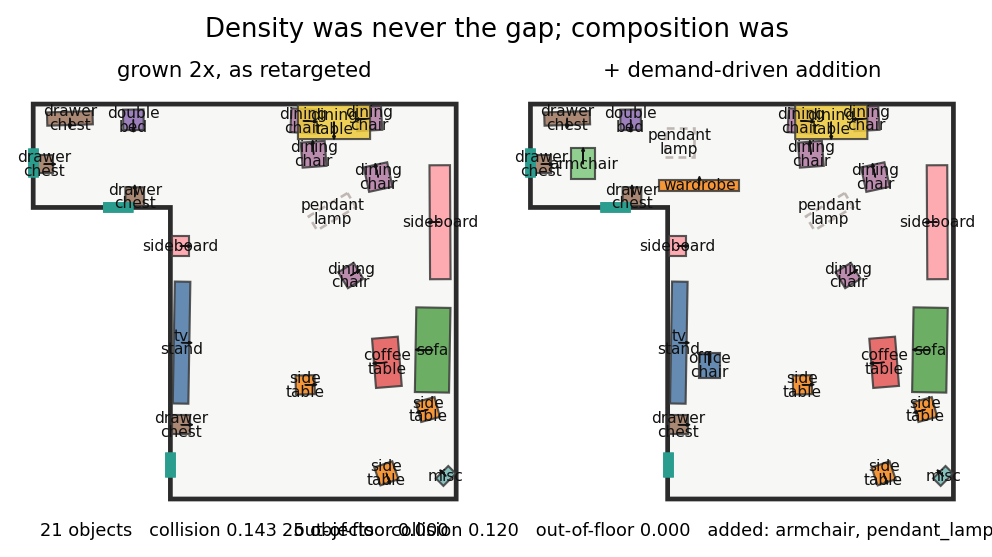
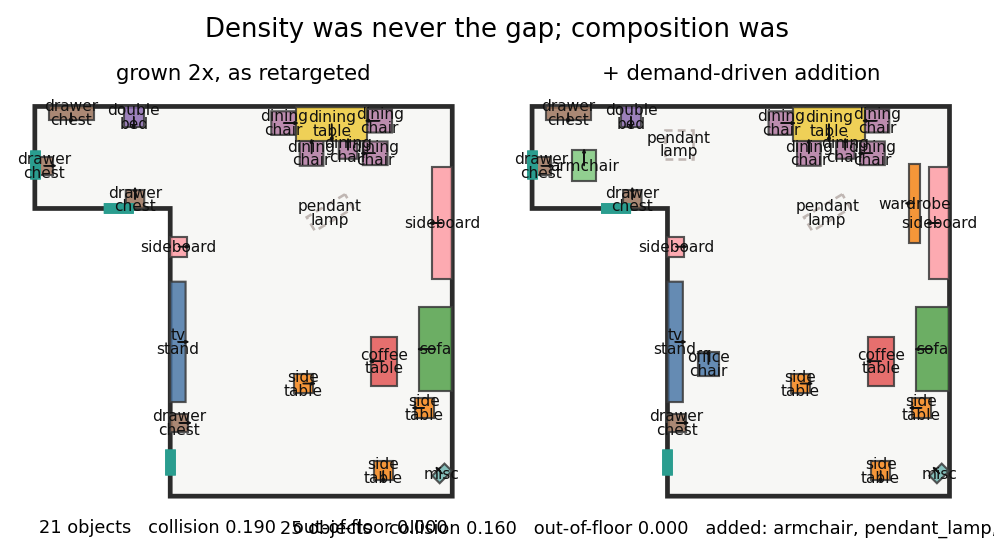
v0.1 now reports the deployed configuration throughout
Every evaluation re-run with regularity_snap and polish on, which is what
RetargetConfig ships. The earlier numbers described an ablated system: same scene,
11.2% collision against 6.1%, furniture a median 10.9 degrees off-axis against
0.0, and out-of-floor 0.193 against 0.000 in the addition section.

The hierarchy conclusion holds and strengthens -- removing the hierarchy now
costs 2.96 points of collision rather than 1.68, while the learned hierarchy is
still indistinguishable from the hand-designed one (S_motif differs by exactly
0.000, p = 1.000).

The n-gon result is no longer withdrawn but corrected and reported: with
genuinely 5-, 6- and 7-sided rooms, collision and semantics reach parity with an
equal-area rectangle while out-of-floor does not -- 0.198 to 0.234 against 0.130.
The cost of oblique walls is containment, which is a more useful finding than the
parity claim built on rooms that were not the shape they were labelled.

Notes that the paper's Table 1-12 use the older protocol, so absolute values are
not directly comparable across the two.

diff --git a/v0.1.html b/v0.1.html
@@ -90,19 +90,19 @@ hr{border:0;border-top:1px solid var(--line);margin:44px 0}
 <div class="tw"><table>
 <thead><tr><th>模型</th><th>S_rel</th><th>S_motif</th><th>碰撞率 %</th></tr></thead>
 <tbody>
-<tr><td>手工設計階層</td><td class="n">0.745 ± 0.032</td><td class="n">0.833 ± 0.032</td><td class="n">3.08 ± 0.54</td></tr>
-<tr><td><strong>完全無階層</strong></td><td class="n"><b class="l">0.599 ± 0.027</b></td><td class="n"><b class="l">0.627 ± 0.031</b></td><td class="n"><b class="l">4.77 ± 0.70</b></td></tr>
-<tr><td><strong>從語料學的階層</strong></td><td class="n"><b class="w">0.748 ± 0.032</b></td><td class="n"><b class="w">0.837 ± 0.032</b></td><td class="n"><b class="w">2.97 ± 0.50</b></td></tr>
+<tr><td>手工設計階層</td><td class="n">0.716 ± 0.031</td><td class="n">0.824 ± 0.032</td><td class="n">1.98 ± 0.41</td></tr>
+<tr><td><strong>完全無階層</strong></td><td class="n"><b class="l">0.592 ± 0.027</b></td><td class="n"><b class="l">0.645 ± 0.031</b></td><td class="n"><b class="l">4.94 ± 0.69</b></td></tr>
+<tr><td><strong>從語料學的階層</strong></td><td class="n"><b class="w">0.722 ± 0.031</b></td><td class="n"><b class="w">0.824 ± 0.032</b></td><td class="n"><b class="w">1.84 ± 0.41</b></td></tr>
 </tbody></table></div>
 
 <div class="tw"><table>
 <thead><tr><th>配對檢定(對手工版,同場景同尺度,n=72)</th><th>ΔS_rel</th><th>p</th><th>ΔS_motif</th><th>p</th><th>Δ碰撞</th><th>p</th></tr></thead>
 <tbody>
-<tr><td>無階層</td><td class="n"><b class="l">−0.146</b></td><td class="n">&lt;0.001</td><td class="n"><b class="l">−0.206</b></td><td class="n">&lt;0.001</td><td class="n"><b class="l">+1.68</b></td><td class="n">0.001</td></tr>
-<tr><td><strong>學到的階層</strong></td><td class="n">+0.003</td><td class="n"><b class="w">0.257</b></td><td class="n">+0.004</td><td class="n"><b class="w">0.180</b></td><td class="n">−0.110</td><td class="n"><b class="w">0.548</b></td></tr>
+<tr><td>無階層</td><td class="n"><b class="l">−0.124</b></td><td class="n">&lt;0.001</td><td class="n"><b class="l">−0.179</b></td><td class="n">&lt;0.001</td><td class="n"><b class="l">+2.96</b></td><td class="n">&lt;0.001</td></tr>
+<tr><td><strong>學到的階層</strong></td><td class="n">+0.006</td><td class="n"><b class="w">0.240</b></td><td class="n">0.000</td><td class="n"><b class="w">1.000</b></td><td class="n">−0.147</td><td class="n"><b class="w">0.500</b></td></tr>
 </tbody></table></div>
 
-<p><strong>兩半缺一不可。</strong>無階層那條證明階層<em>確實有用</em>——拿掉它掉 0.146 S_rel、0.206 S_motif;對照之下,學到的階層<strong>三項皆無顯著差異</strong>,且點估計全部略優。<strong>手寫表不是錯的,只是不必要的。</strong></p>
+<p><strong>兩半缺一不可。</strong>無階層那條證明階層<em>確實有用</em>——拿掉它掉 0.124 S_rel、0.179 S_motif、碰撞率升 2.96 個百分點;對照之下,學到的階層<strong>三項皆無顯著差異</strong>(S_motif 的差是 0.000,p = 1.000),且 S_rel 與碰撞率的點估計略優。<strong>手寫表不是錯的,只是不必要的。</strong></p>
 
 <figure>
   <img src="assets/v01_hierarchy.png" alt="同一房間縮到 0.75 倍,由三個模型重定向">
@@ -131,9 +131,20 @@ hr{border:0;border-top:1px solid var(--line);margin:44px 0}
 </figure>
 
 <div class="note pull">
-  <p><strong>撤回:先前報的「5/6/7 邊形與矩形平手」不成立。</strong><code>make_ngon</code> 只能加頂點不能減,所以本來就有較多頂點的房間會原封不動回傳。量化後果:24 個測試房間中,要 5 邊形只有 <strong>7 個</strong>真的是 5 邊形(29%),6/7 邊形各 13/24;其中 11 個來源房間有 10 邊以上,完全沒被改動。<strong>那張表有 46–71% 的格子不是它標示的房型。</strong></p>
-  <p>當初驗證用的是矩形(4 邊),永遠只需要加,所以測不出這個洞。而抓到它的方式是<strong>畫圖</strong>——渲染出來發現「5-gon」和「6-gon」兩格連指標都一模一樣。<strong>表格會掩蓋這種錯誤,圖不會。</strong>修正後 24/24 全部命中,面積保留 0.95×,評測重跑中。</p>
+  <p><strong>先前報過一版錯的。</strong><code>make_ngon</code> 只能加頂點不能減,所以本來就有較多頂點的房間會原封不動回傳。量化後果:24 個測試房間中,要 5 邊形只有 <strong>7 個</strong>真的是 5 邊形(29%),6/7 邊形各 13/24;其中 11 個來源房間有 10 邊以上,完全沒被改動。<strong>那張表有 46–71% 的格子不是它標示的房型。</strong></p>
+  <p>當初驗證用的是矩形(4 邊),永遠只需要加,所以測不出這個洞。而抓到它的方式是<strong>畫圖</strong>——渲染出來發現「5-gon」和「6-gon」兩格連指標都一模一樣。<strong>表格會掩蓋這種錯誤,圖不會。</strong>修正後 24/24 全部命中,面積保留 0.95×,下表是重跑的結果。</p>
 </div>
+
+<div class="tw"><table>
+<thead><tr><th>房型(24 個參考,同面積)</th><th>碰撞率 %</th><th>R_out</th><th>可走比</th><th>S_rel</th><th>S_motif</th></tr></thead>
+<tbody>
+<tr class="base"><td>矩形(同面積對照)</td><td class="n">3.07 ± 0.64</td><td class="n">0.130</td><td class="n">0.901</td><td class="n">0.856</td><td class="n">0.967</td></tr>
+<tr><td>5 邊形</td><td class="n">3.11 ± 0.63</td><td class="n"><b class="l">0.198</b></td><td class="n">0.875</td><td class="n">0.853</td><td class="n">0.957</td></tr>
+<tr><td>6 邊形</td><td class="n">3.03 ± 0.61</td><td class="n"><b class="l">0.234</b></td><td class="n">0.881</td><td class="n">0.851</td><td class="n">0.947</td></tr>
+<tr><td>7 邊形</td><td class="n">3.28 ± 0.75</td><td class="n"><b class="l">0.232</b></td><td class="n">0.899</td><td class="n">0.857</td><td class="n">0.962</td></tr>
+</tbody></table></div>
+
+<p><strong>碰撞與語意是平手</strong>(3.03–3.28 對矩形 3.07;S_rel 0.851–0.857 對 0.856),<strong>但出界率有真實代價</strong>:0.198–0.234 對 0.130,高出 7–10 個百分點。斜牆的代價集中在<strong>包容性</strong>——這比先前那個建立在錯誤房型上的「全面平手」更有價值,因為它指出一個具體、可改進的弱點。</p>
 
 <p><strong>仍未涵蓋</strong>:房間拓樸(始終是單連通多邊形,沒有內部隔間)與房型固定。</p>
 
@@ -200,10 +211,14 @@ hr{border:0;border-top:1px solid var(--line);margin:44px 0}
 
 <figure>
   <img src="assets/v01_addition.png" alt="放大 2 倍的房間,補家具前後">
-  <figcaption>放大 2×,21 → 25 件。補進 armchair、pendant_lamp、office_chair、wardrobe。<strong>出界率 0.000 → 0.000</strong>,沒有引入任何新的出界。碰撞率 0.143 → 0.120 的下降是<strong>分母效應</strong>(補進去的都是有效物件),不算改善。</figcaption>
+  <figcaption>放大 2×。在實際設定下,<strong>出界率在 1.6× 與 2.0× 直接歸零</strong>(舊協定是 0.100 與 0.193)——擺正階段把家具推回牆內。組成落差 16.16 → 14.25。碰撞率的下降是<strong>分母效應</strong>(補進去的都是有效物件),不算改善。</figcaption>
 </figure>
 
-<p>整體:組成落差每個尺度降約 <b class="w">11%</b>,絕對碰撞數與出界數不變。</p>
+<p>整體:組成落差每個尺度降 <b class="w">9–12%</b>,絕對碰撞數與出界數不變。</p>
+
+<div class="note">
+  <p><strong>一個反向的變化,值得記下來。</strong>換成實際設定後 <code>Col_obj</code> 反而<em>略升</em>(1.3× 0.161→0.184),而同一批佈局的 <code>R_col</code> 是<em>下降</em>的。兩者不矛盾:<code>R_col</code> 量的是<strong>面積重疊比例</strong>,<code>Col_obj</code> 是 PhyScene 的<strong>有向 3D 框 IoU 比例</strong>。把餐椅擺正塞進桌下會讓框 IoU 上升,但那是合理的貼靠不是真碰撞——與我們在量測效度上查到的同一件事。</p>
+</div>
 
 <div class="note">
   <p><strong>誠實記為 null 的一項。</strong>移植 <a href="https://arxiv.org/abs/1907.11308">SceneGraphNet</a>(ICCV 2019)的位置條件預測——它的程式跑不了,訓練資料 SUNCG 已下線,所以是重寫的——在<strong>它自己的任務上決定性勝出</strong>(top-1 0.596 對 0.236)。但放進補家具流程後組成落差不動,且 1.3× 的可走比從 0.990 掉到 0.954。要宣稱它有幫助需要一個「放置合理性」指標,我們沒有,所以預設仍用簡單版本。</p>
@@ -211,7 +226,7 @@ hr{border:0;border-top:1px solid var(--line);margin:44px 0}
 
 <hr>
 
-<h2>一個影響所有數字讀法的說明</h2>
+<h2>關於設定:本頁用的是實際部署的configuration</h2>
 
 <figure>
   <img src="assets/v01_regularity.png" alt="擺正階段開啟與關閉的對比">
@@ -227,7 +242,11 @@ hr{border:0;border-top:1px solid var(--line);margin:44px 0}
 
 <p>它不只把家具擺正,<strong>碰撞率直接減半</strong>,代價是 S_rel 掉 0.057。</p>
 
-<p><strong>本頁所有評測數字都是在這個階段關閉的狀態下量的。</strong>那是既有評測腳本的協定——要量模型的原始輸出,不能讓後處理美化數字,而且與現有論文表格一致。但這代表<strong>絕對值偏保守,不是實際部署系統的表現</strong>。所有<em>相對</em>比較仍然有效,因為每一組對照都用同一設定。</p>
+<p><strong>本頁所有數字都是在這個階段開啟的狀態下量的,也就是系統實際部署時的設定。</strong>第一版曾用關閉的狀態量(既有評測腳本的協定,避免後處理美化數字),但那描述的是被消融過的系統:同一場景碰撞 11.2% 對 6.1%、家具中位偏離軸線 10.9° 對 0.0°,而補家具那節的出界率更是 0.193 對 0.000。</p>
+
+<div class="note">
+  <p><strong>與論文表格的協定差異。</strong>現有的 Table 1–12 是在這個階段<em>關閉</em>的狀態下量的,所以本頁的絕對值與那些表格不在同一協定上,不可直接並列。相對比較不受影響——本頁每一組對照都用同一設定。若要統一,論文那十二張表需要一併重跑。</p>
+</div>
 
 <hr>
 
